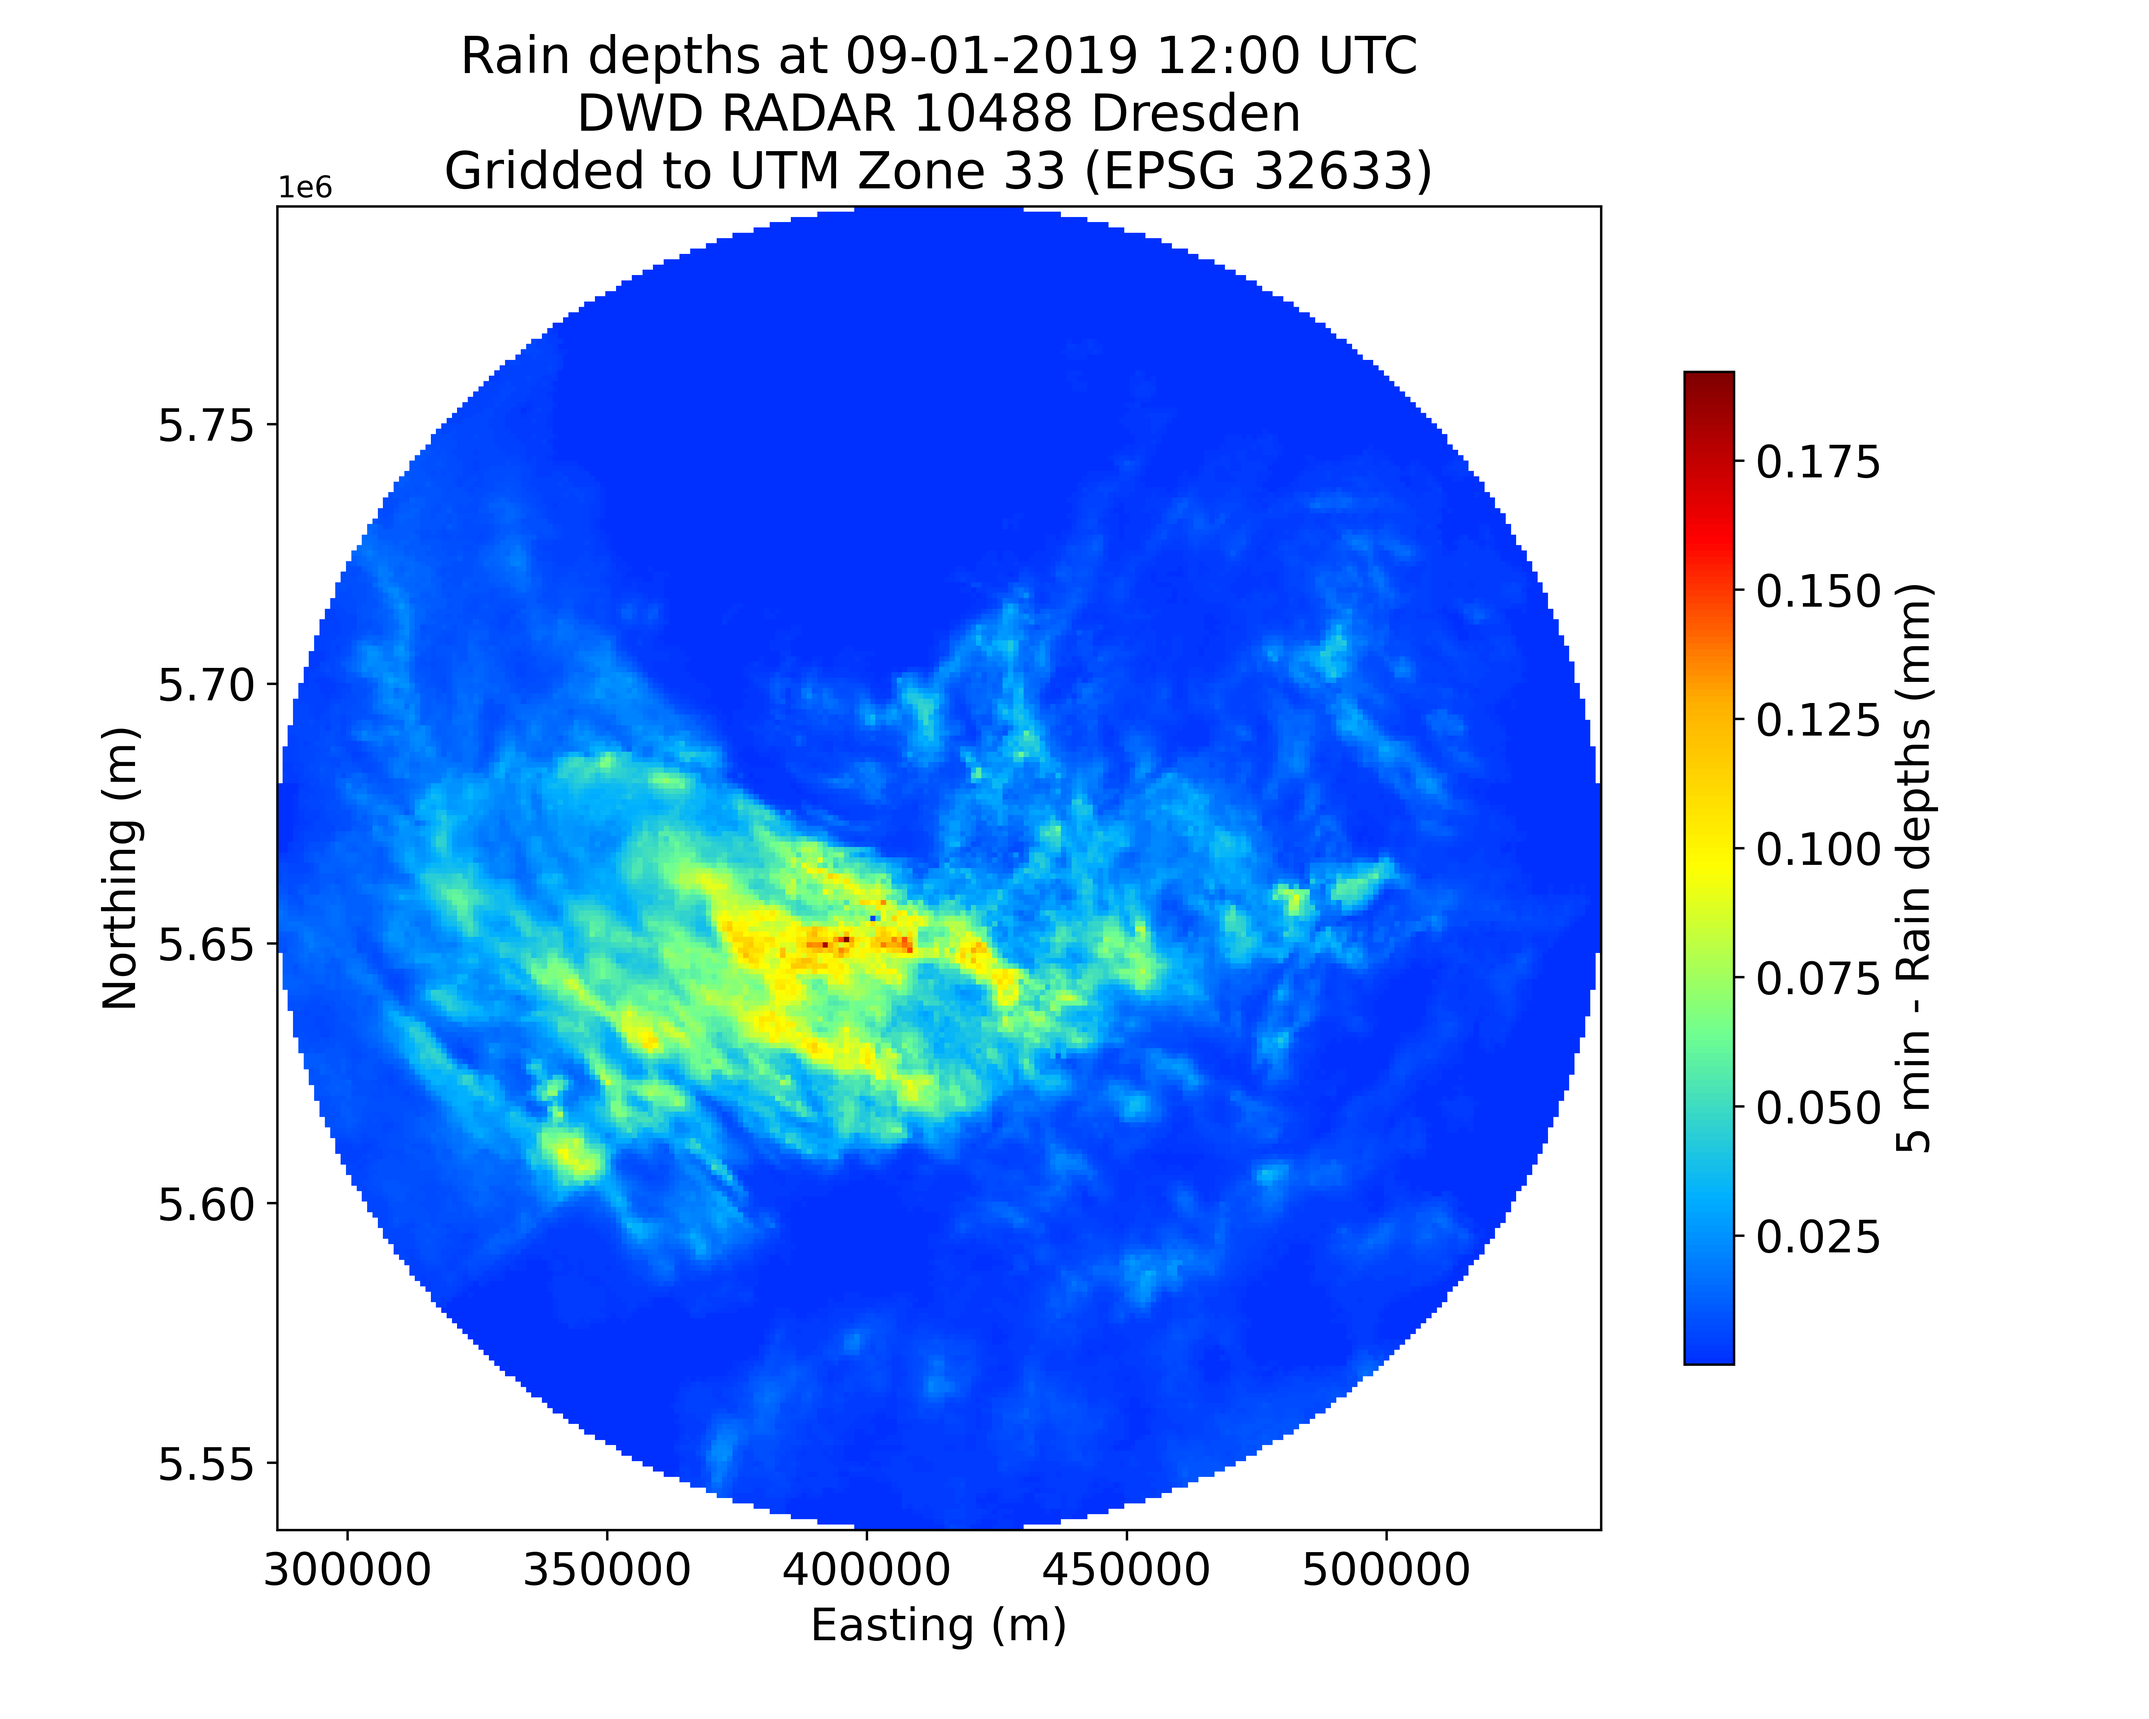
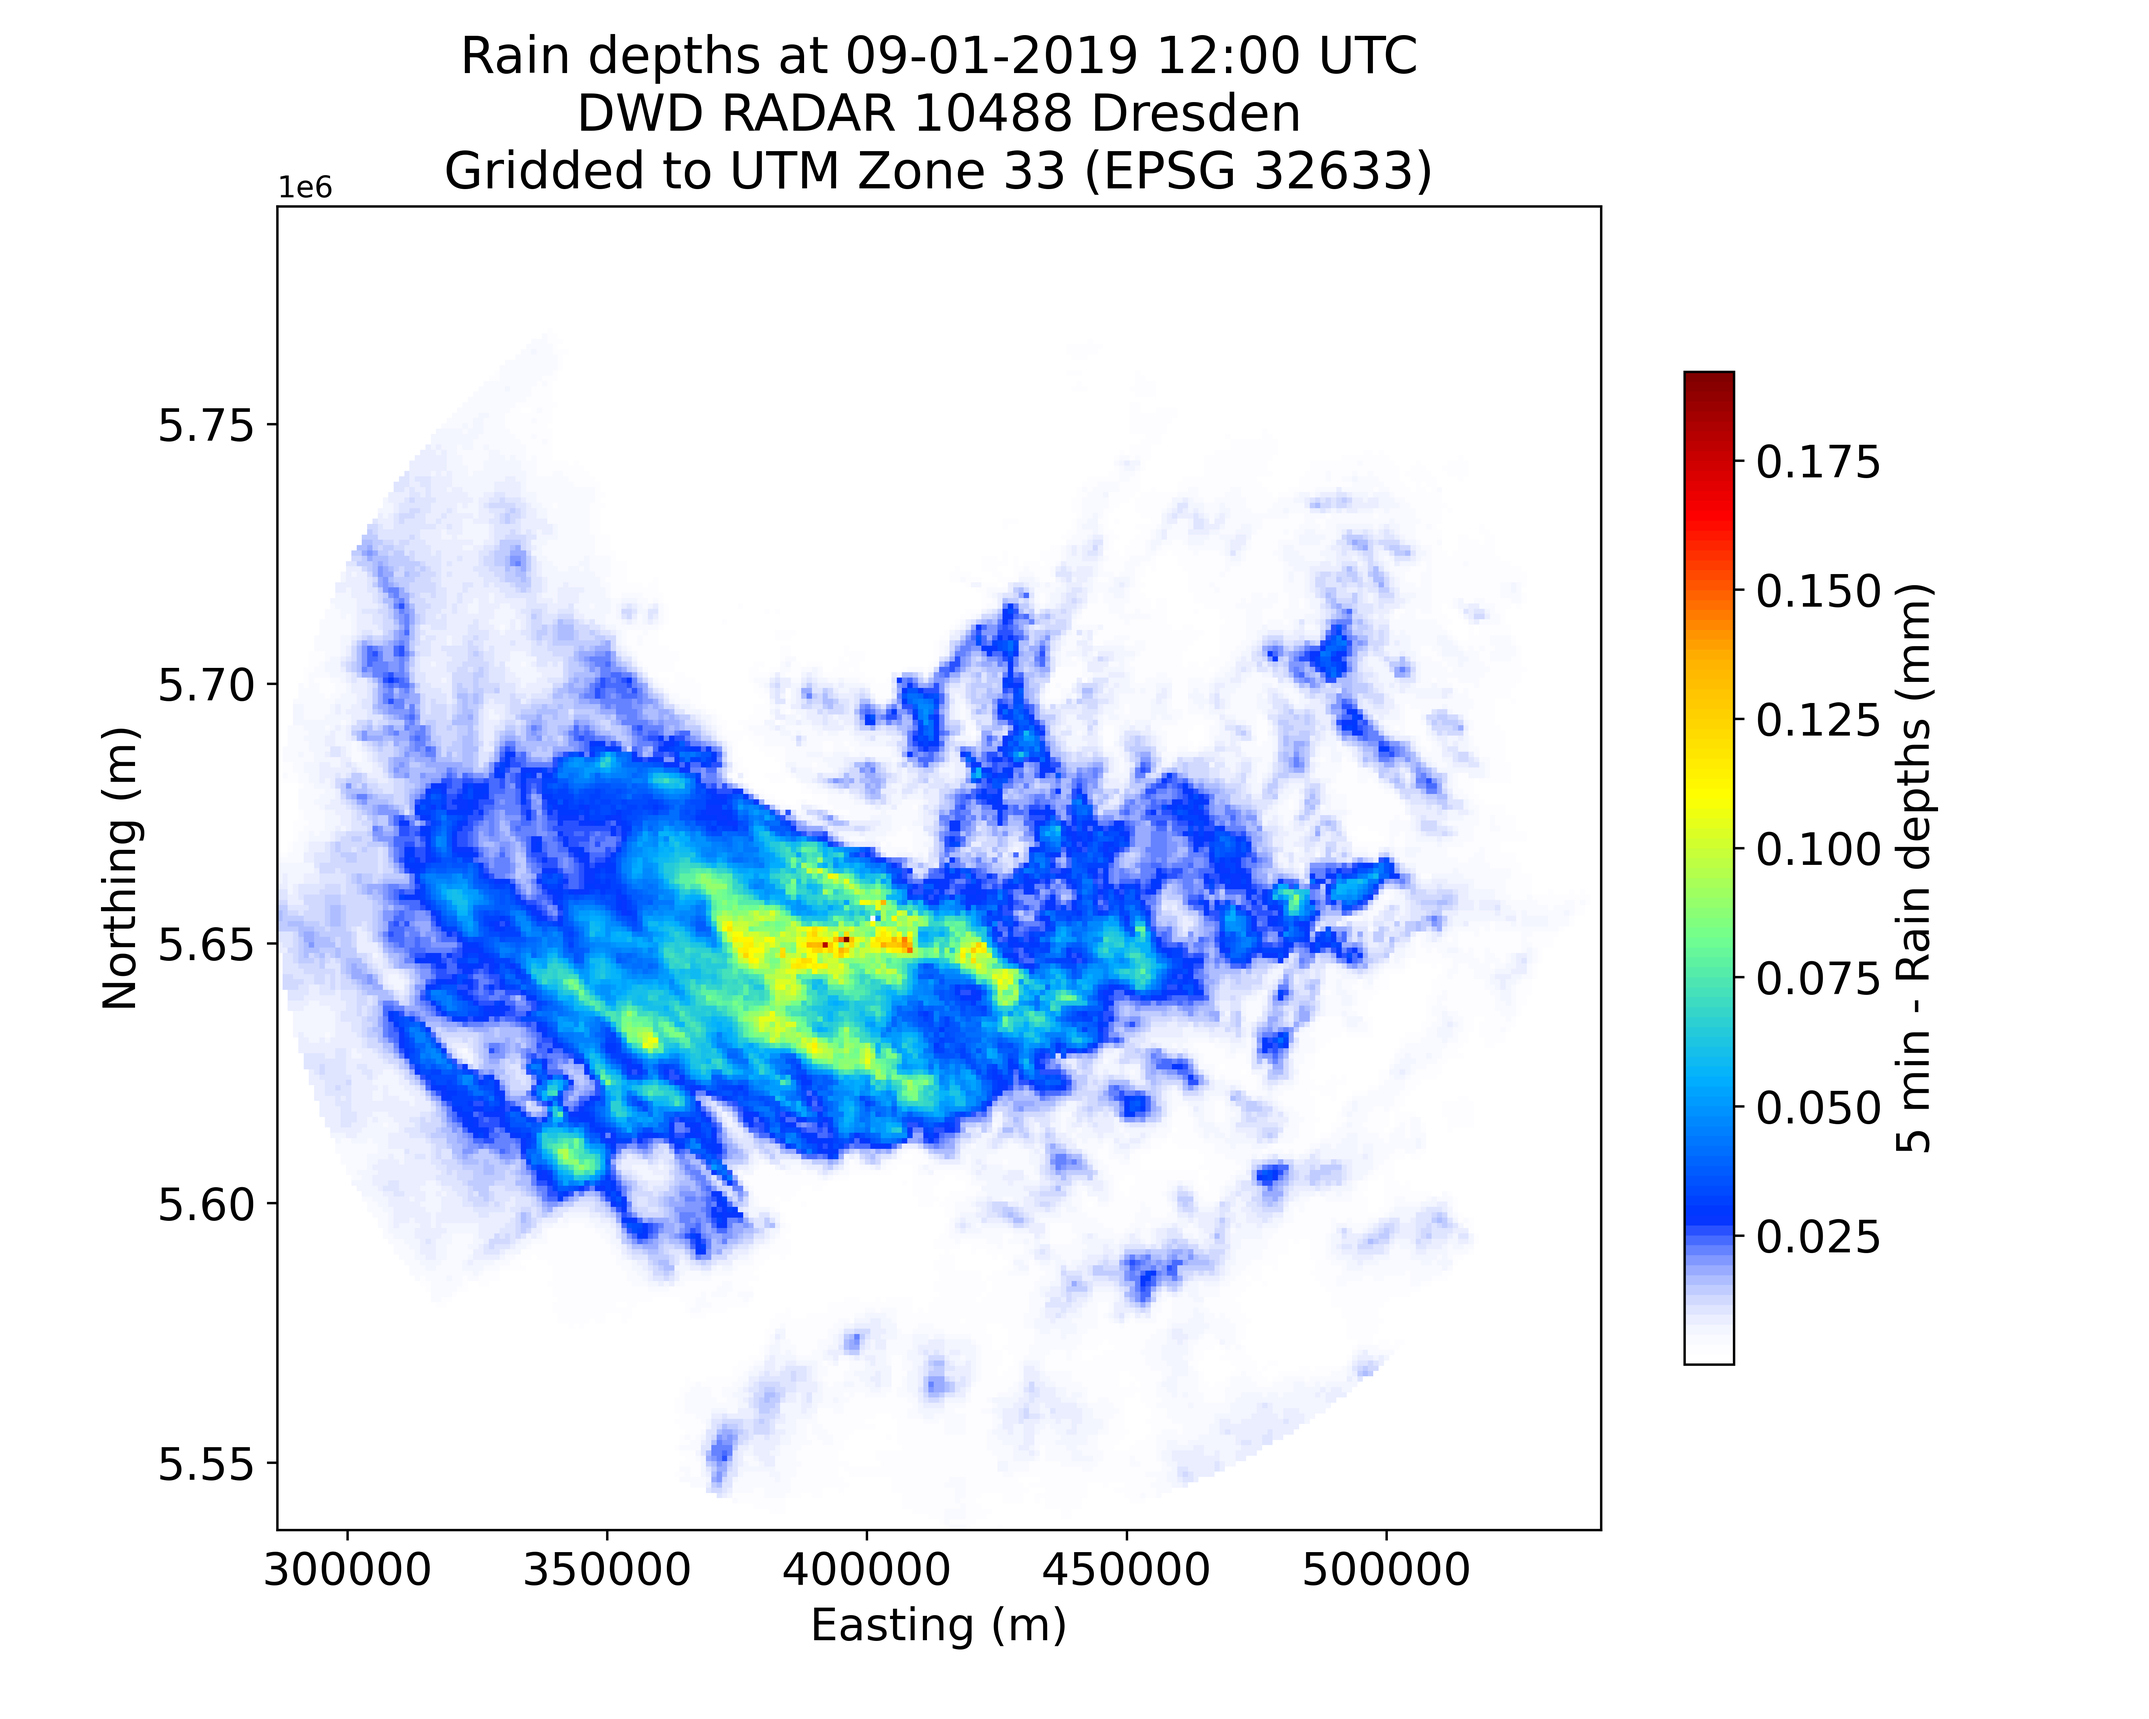
Change colorbar of rain depths.

diff --git a/code/colorbar.py b/code/colorbar.py
@@ -2,7 +2,7 @@ from matplotlib.colors import LinearSegmentedColormap
 
 
 # define colors (list of RGB tuples: left blue, right red)
-colors = [(0,0.19,1), (0,0.69,1), (0.44,1,0.56), (1,1,0), (1,0.69,0), (1,0,0), (0.5,0,0)]
+colors = [(1,1,1,0), (0,0.19,1), (0,0.69,1), (0.44,1,0.56), (1,1,0), (1,0.69,0), (1,0,0), (0.5,0,0)]
 
 # Create colormap with 150 bins: few bins > discrete colorbar
-cm = LinearSegmentedColormap.from_list("new_jet", colors, N=150) 
+cm = LinearSegmentedColormap.from_list("new_jet", colors, N=100) 
